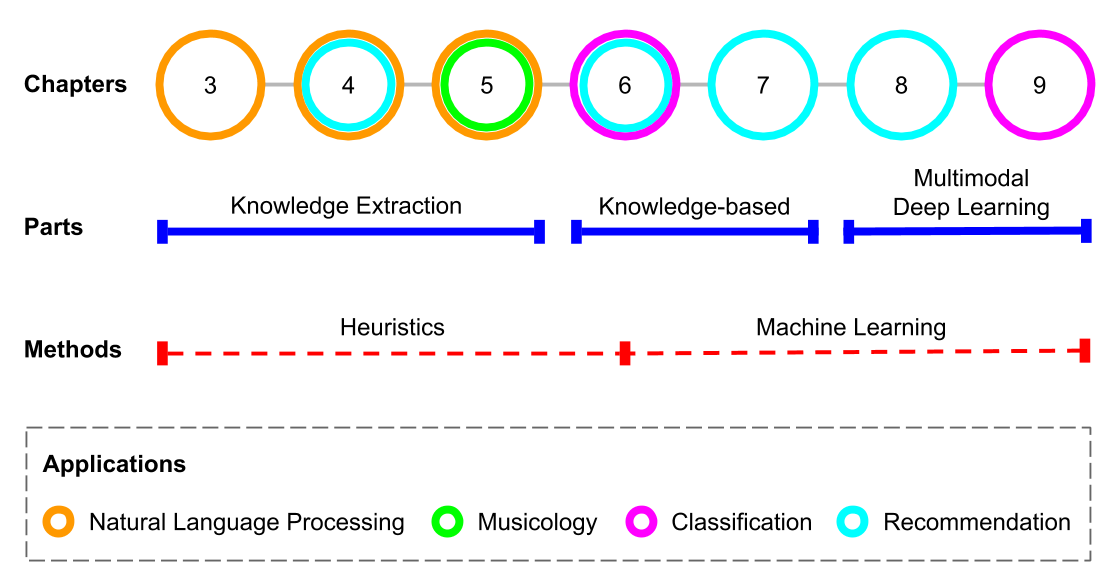
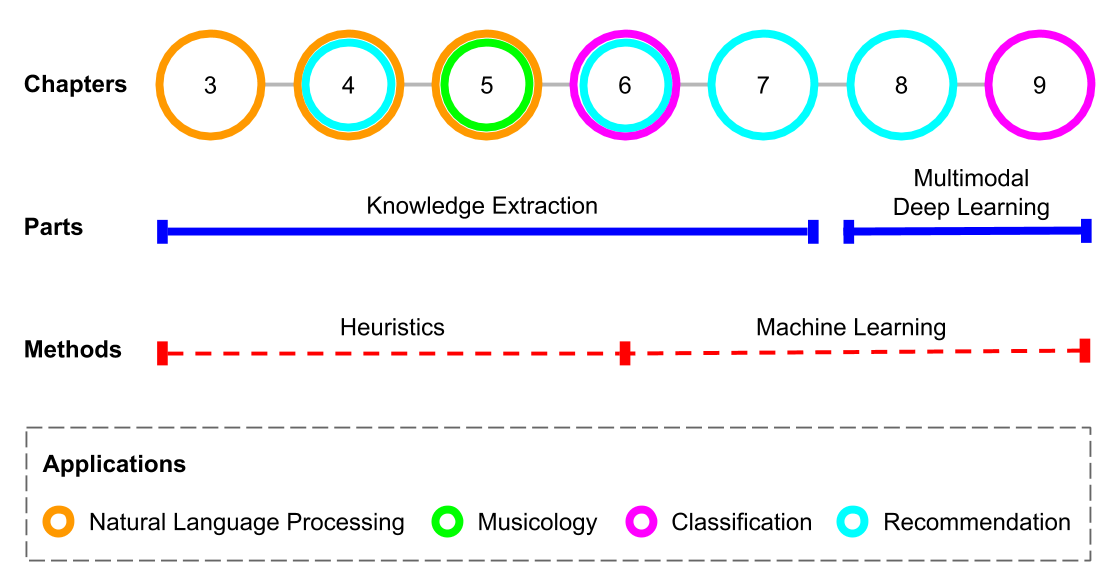
new intro

Changed region(s): [[0.2131, 0.3396, 0.7305, 0.4322]]

diff --git a/chapters/ch02_soa.tex b/chapters/ch02_soa.tex
@@ -10,8 +10,8 @@ The literature review presented in this chapter is divided in three parts. Each 
 First, we summarise existing work on several areas of Natural Language Processing, with special focus on its application to the music domain. 
 We define what a knowledge base (KB) is and the different existing types. Moreover, we deepen into the available knowledge bases that contain music information.
 Then, we explain what entity linking is and briefly describe some state-of-the-art systems. Additionally, we outline different existing approaches for relation extraction. 
-Hereafter, we briefly explain the different main approaches used in Recommender Systems. Then, we enumerate the main available works related to semantic-based approaches for recommendation.
-Finally, we dig into the available literature on Music Information Retrieval. More specifically, we first review the state-of-the-art in text-based and semantic-based approaches. Then, we focus on three specific tasks: music genre classification, artist similarity, and music recommendation.
+Next, we briefly explain the main methodologies used in Recommender Systems, and enumerate the available work on knowledge-based approaches.
+Finally, we dig into the existing literature on Music Information Retrieval. More specifically, we first review the state-of-the-art in text-based and semantic-based approaches. Then, we focus on three specific tasks: music genre classification, artist similarity, and music recommendation.
 %. First, we recapitulate existing work about music genre classification, with a special focus on text-based approaches.
 %Second, we illustrate existing text-based apporaches for artist similarity.
 %Finally, we outline the different apporaches that have been proposed about semantic-based recommender systems and cold-start music recommendation.
@@ -137,22 +137,17 @@ Dependency relations have been successfully incorporated to relation extraction 
 
 %Information overload in modern Web applications challenges users in their decision-making tasks. 
 %Recommender systems have emerged in the last years as fundamental tools in assisting users to find, in a personalized manner, what is relevant for them in overflowing knowledge spaces. 
-The main objective of a recommender system is to predict the \textit{rating} or \textit{preference} that a user would give to an item. By doing so, its mision is to provide suggestions for items to be of use to a user \citep{ricci2011introduction}. \textit{Item} is the general term used to denote what the system recommends to users (e.g. song, album, video, book).
+The main objective of a recommender system is to predict the \textit{rating} or \textit{preference} that a user would give to an item. By doing so, its mision is to provide suggestions for items to be of use to a user \citep{ricci2011introduction}. \textit{Item} is the general term used to denote what the system recommends to users (e.g., song, album, video, book).
 
-\begin{figure}
-	\centering
-	\includegraphics[width=0.6\textwidth]{ch02_soa_pics/Long_tail.png}
-	\caption{Long tail distribution.\label{fig:soa:longtail}}
-\end{figure}
-
-Within the recommender systems arena, there are two main approaches for computing recommendations: collaborative filtering and contend-based ones.
+Within the recommender systems arena, there are two main methods for computing recommendations: collaborative filtering and contend-based ones.
 The most popular is collaborative filtering which provides recommendations to a user by considering the preferences of other users with similar tastes. 
 Matrix factorization techniques are currently collaborative filtering state-of-the-art \citep{Koren2009}. 
 As collaborative filtering methods rely only on users feedback information, they may suffer from the so-called \textit{cold-start} problem \citep{Saveski2014}. That is, when new items are introduced in the system, they can not be initially recommended as there is no feedback information related to them.
-In addition, most popular items tend to attract most of the recommendations in collaborative filtering approaches. The relation between items and popularity is tipically represented as a \textit{long tail} distribution \citep{anderson2006long} (see Figure~\ref{fig:soa:longtail}). A large number of items in the catalog normally receive few interacitons from users, so they are hadrly recommended to users. This items are often called \textit{long tail} items. These less popular items may be promoted by priming other evaluation measures rather than prediction accuracy, such as novelty or diversity.
+In addition, most popular items tend to attract most of the recommendations in collaborative filtering approaches. The relation between items and popularity is tipically represented as a \textit{long tail} distribution \citep{anderson2006long} (see Figure~\ref{fig:intro:longtail}). A large number of items in the catalog normally receive few interacitons from users, so they are hadrly recommended. %This items are often called \textit{long tail} items. 
+These less popular items may be promoted by priming other evaluation measures rather than prediction accuracy, such as novelty or diversity \citep{abdollahpouri2017controlling}.
 However, an even larger set of items in large catalogs receive almost none interactions. These \textit{extreme long tail} items are in practice as cold-start items, as the number of interactions is smaller than the minimum value requiered for collaborative filtering methods.
 
-Contrary to collaborative filtering, content-based methods \citep{Mooney1999} rely only on item features, and recommendations are based on similarity between such features. Content-based methods does not suffer from the cold-start problem and are not biesed towards popular items. However, collaborative filtering methods tend to perform better when measuring the overall accuracy of the prediction \citep{pilaszy2009recommending}.
+Contrary to collaborative filtering, content-based methods \citep{Mooney1999} rely only on item features, and recommendations are based on similarity between such features. Content-based methods does not suffer from the cold-start problem and are not biesed towards popular items. However, collaborative filtering methods tend to perform better when measuring the overall accuracy of the predictions \citep{pilaszy2009recommending}.
 %Content-based systems recommend items sharing similar features to those a user has preferred in past.
 Finally, hybrid methods \citep{Burke2002} try to combine the best of both worlds, combining both item-content and item-user feedback. 
 %Both approaches can be combined to build hybrid systems \cite{Burke2002}. 
@@ -161,7 +156,7 @@ When available, the usage of side information about items has proven to boost th
 %Recommender systems can be broadly classified into collaborative filtering (CF), content-based, and hybrid methods. Collaborative filtering methods \citep{Koren2009} use the item-user feedback matrix and predictions are based on the similarity of user or items profiles. Content-based methods \citep{Mooney1999} rely only on item features, and recommendations are based on similarity between such features. Finally, hybrid methods \citep{Burke2002} try to combine both item content and item-user feedback.
 
 
-\subsection{Semantic-based approaches}
+\subsection{Knowledge-based approaches}
 \label{sec:SOA:mir:recommendation:semantic}
 
 Ontology-based and semantics-aware recommendation systems have been proposed in many works in the past. 
@@ -181,42 +176,45 @@ Two hybrid approaches have been presented lately. In \citep{Ostuni2013} the auth
 %In \citep{Rowe1} the authors propose a semantic-aware extension of the SVD++ model, named SemanticSVD++, which incorporates semantic categories of items into the model. The model is able also to consider the evolution over time of user's preferences. 
 Finally, another interesting direction about the usage of LOD for content-based RSs is explored in \citep{MustoSLG14} where the authors present Contextual eVSM, a content-based context-aware recommendation framework that adopts a semantic representation based on distributional semantics and entity linking techniques.% In particular entity linking is used to detect entities in free text and map them to LOD.
 
+%\subsection{Deep learning approaches}
+
 
 \section{Music Information Retrieval}
 \label{sec:SOA:mir}
 
 As stated in Section~\ref{sec:intro:nlp}, Music Information Retrieval (MIR) is a multidisciplinary field of research that is concerned with the extraction, analysis, and usage of information about music. %Traditionally, MIR has been more focused on the use of audio content, underestimating other sources of information. However, in recent years several studies have showed the benefits of using other modalities, as well as their combination in multimodal approaches \cite{Schedl2014}. 
 Although MIR approaches have been traditionally focused on audio content, there have been a growing interest in text-based and multimodal approaches along the last decade. However, most of these text-based approaches are focused on low and mid-level text representations, ignoring the full epistemic potential expressed in texts. In addition, most of audio-based approaches have traditionally relied on handcrafted features, underexploring factors of variability behind the data.
-In this dissertation we focus on knowledge-based and representation learning approaches applied to three MIR tasks: music genre classification, artist similarity, and music recommendation.
+In this dissertation we focus on knowledge-based and deep learning approaches applied to three MIR tasks: music genre classification, artist similarity, and music recommendation.
 
 \subsection{Text-based approaches}
 
-Early work on NLP in the context of MIR is related to the extraction of music artist information from artist-related web pages, using search engines to gather those pages and then parsing their DOM trees \citep{Cohen2000}. Other studies \citep{Ellis2002,Whitman2002} use weighted term profiles based on specific term sets for recommendation and classification tasks. 
-%Early work also on multimodal approaches \cite{} combines 
-Co-occurrence of artist names in web pages content and page count based on results provided by search engines have been used for artist similarity and recommendation tasks \citep{Schedl2005}. Song lyrics \citep{laurier2008multimodal,corona2015exploration} and tweets \citep{hauger2013million,schedl2012mining} are other commonly used text sources in MIR. %The number of publications related to this topic have been increasing along the years \cite{}. 
+Early work on NLP in the context of MIR is related to the extraction of music artist information from artist-related web pages by parsing their HTML-trees \citep{Cohen2000}, using weighted term profiles \citep{Ellis2002,Whitman2002}, or counting co-occurrence of artist names in results provided by search engines \citep{Schedl2005}. Other text sources, such as song lyrics \citep{laurier2008multimodal,corona2015exploration} and tweets \citep{hauger2013million,schedl2012mining} have been also studied. %The number of publications related to this topic have been increasing along the years \cite{}. 
 More detailed information about text-based approaches applied to MIR problems can be found in \cite{Knees2013, Schedl2014}.
+%There are some review papers on text-based approaches \cite{Knees2013, Schedl2014}.
 
-There have been also some initial atempts to work with mid and high-level text representations in the context of MIR. In \cite{Sordo2012}, a methodology for extracting semantic information from music-related forums is proposed, inferring semantic relations from the co-occurrence of musical concepts in forum posts. 
+There are in the literature some initial atempts to work with high-level text representations in the context of MIR. In \cite{Sordo2012}, a methodology for extracting semantic information from music-related forums is proposed, inferring semantic relations from the co-occurrence of musical concepts in forum posts. 
 %In \cite{Sordo2013}, a set of semantic facets is automatically obtained and anchored upon the structure of Wikipedia, and tags from the folkosonomy of \texttt{Last.fm} are then categorized with respect to the obtained facets. 
 In \cite{Knees2011} a methodology to automatically extract semantic information and relations about musical entities from arbitrary textual sources is proposed. In \cite{TataandDiEugenio2010} a method to extract information about indidual songs from album reviews is proposed, combining syntactic, semantic and sentiment analysis. Finally, the C@amerata task \cite{sutcliffe2016c, sutcliffe2015}, part of the MeidaEval evaluation campaigns from 2013 to 2017, is focused on music Question \& Answering (Q\&A) systems. In this task the input is a natural language phrase, together with a music score in MusicXML, and the required output should be one or more matching passages in the score.
 
 There have been also some interesting works trying to understand the semantics behind the audio signal using natural language text. In this sense, \cite{Whitman2004} combines text analysis with acoustic descriptors in order to automatically generate music reviews from the audio signal. In \cite{koduri2014culture}, culturally relevant and musically meaningful information about melodic intervals extracted from audio and text are structured in a formal knowledge representation and exploited to compute simiarity measures for the discovery of musical entities.
 %\cite{Kolozali2013} shows a method for the automatic creation of an ontology of musical instruments using formal concept analysis over audio features. 
 
-\subsection{Semantic-based approaches}
+\subsection{Knowledge-based approaches}
 \label{sec:SOA:mir:semantics}
 
-Semantic representations have been also studied in the context of MIR, but instead of extracted from text, they are typically retrieved from online knowledge repositories. For instance, in \cite{Sordo2013} a set of semantic facets is automatically obtained and anchored upon the structure of Wikipedia, and tags from the folkosonomy of \texttt{Last.fm} are then categorized with respect to the obtained facets. In \cite{Celma:ISWC06}, information from different sources is gathered in a central knowledge repository following the Semantic Web principles and using Friend of a Friend (FOAF) ontology. This semantic information is then exploited for music recommendation. In \cite{dbrec1}, DBpedia graph is used to provide explanations of music recommendations. In \cite{Ostuni2013}, DBpeida graph information is combined with users feedback data comming from \texttt{Last.fm} to compute music recommendations.
+Knowledge representations have been also studied in the context of MIR, but instead of extracted from text, they are typically retrieved from online knowledge repositories. For instance, in \cite{Sordo2013} a set of semantic facets is automatically obtained and anchored upon the structure of Wikipedia, and tags from the folkosonomy of \texttt{Last.fm} are then categorized with respect to the obtained facets. In \cite{Celma:ISWC06}, information from different sources is gathered in a central knowledge repository following the Semantic Web principles and using the Friend of a Friend (FOAF) ontology. This semantic information is then exploited for music recommendation. In \cite{dbrec1}, DBpedia graph is used to provide explanations of music recommendations, whereas in \cite{Ostuni2013}, is combined with users feedback data comming from \texttt{Last.fm} to compute music recommendations.
 
-A key aspect in the development of semantic-based music retrieval systems have been the definition of the Music Ontology \cite{raimond2007music}, a formal framework for dealing with music-related information on the Semantic Web, including editorial, cultural and acoustic information. This development, has facilitate the interlinking between music-related datasets on the Web \cite{raimond2008automatic}. \cite{Gracy2013} reviews current efforts to connect music data already available within the Semantic Web. The authors collected, analyzed and mapped properties used by music Linked Data knowledge bases, library catalogs and various digital collections.
+A key aspect in the development of knowledge-based music retrieval systems have been the definition of the Music Ontology \cite{raimond2007music}, a formal framework for dealing with music-related information on the Semantic Web, including editorial, cultural and acoustic information. This development, has facilitated the interlinking between music-related datasets on the Web \cite{raimond2008automatic}. In this direction, \cite{Gracy2013} reviews current efforts to connect music data already available within the Semantic Web. The authors collected, analyzed and mapped properties used by music Linked Data knowledge bases, library catalogs and various digital collections.
 
 In this context of Linked Open Data, semantic information have also been exploited for Computational Musicology. It is worth mentioning \cite{Crawford}, where a method helps the musicologist to create a linked and extensible knowledge structure over a collection of Early Music metadata and facsimile images.  
 In \cite{Rose2014} seven big datasets of musical-biographical metadata are aligned, and they show how analysis and visualization of the data might transform musicological understanding. In \cite{Pattuelli2013}, Linked Data technology is applied to enhance discovery and visibility of jazz music.
 
+%\subsection{Deep learning approaches}
+
 \subsection{Music genre classification}
 \label{sec:SOA:mir:classfication}
 
-Music genre labels are useful categories to organize and classify songs, albums and artists into broader groups that share similar musical characteristics. They have been widely used for music classification, from physical music stores to streaming services. Automatic music genre classification thus is a widely explored topic \citep{sturm2012survey}.
+%Music genre labels are useful categories to organize and classify songs, albums and artists into broader groups that share similar musical characteristics. They have been widely used for music classification, from physical music stores to streaming services. Automatic music genre classification thus is a widely explored topic \citep{sturm2012survey}.
 
 Most published music genre classification approaches rely on audio sources \citep{sturm2012survey,bogdanov2016cross}. 
 Traditional techniques typically use handcrafted audio features, such as Mel Frequency Cepstral Coefficients (MFCCs) \citep{logan2000mel}, as input of a machine learning classifier (e.g., SVM, k-NN) \citep{Tzanetakis2002,seyerlehner2010using}.
@@ -232,20 +230,20 @@ Regariding multimodal approaches found in the literature, most of them combine a
 
 Almost all related work about music genre classification is concentrated in multi-class classification of music items into broad genres (e.g., Pop, Rock), assigning a single label per item. This is problematic since there may be hundreds of more specific music genres \citep{pachet2000taxonomy}, and these may not be necessarily mutually exclusive (i.e., a song could be Pop, and at the same time have elements from Deep House and a Reggae grove). 
 Multi-label classification is a widely studied problem \citep{tsoumakas2006multi,jain2016extreme}. 
-Although there are not many approaches for multi-label classification of music genres \citep{Sanden2011,wang2009tag}, there is a long tradition in MIR for tag classification, which is also a multi-label problem \citep{Choi2016,wang2009tag}.
+Although there are not many approaches for multi-label classification of music genres \citep{Sanden2011,wang2009tag}, there are a large number of works on music auto-tagging from audio \citep{Choi2016,wang2009tag}, which is also a multi-label problem.
 
 
 \subsection{Artist similarity}
 \label{sec:SOA:mir:similarity}
 
-Although artist similarity may be seen as a subtask of music recommendation where no user information is involved, we decided to address its literature review separately, given that it has become a proper task in the context of MIR.
-Music artist similarity has been studied from the score level, the acoustic level, and the cultural level \citep{Ellis2002}. In this disertation, we focus on the latter approach, and more specifically in text-based approaches. Literature on document similarity, and more specifically on the application of text-based approaches for artist similarity is discussed next.
+Artist similarity may be seen as a music recommendation problem without the personalization component. However, we decided to address its literature review separately, given that it has become a proper task in the context of MIR.
+Music artist similarity has been studied from the score level, the acoustic level, and the cultural level \citep{Ellis2002}. In this disertation, we focus on the latter approach, and more specifically on text-based approaches. %Literature on document similarity, and more specifically on the application of text-based approaches for artist similarity is discussed next.
 
 The task of identifying similar text instances, either at sentence or document level, has applications in many areas of Artificial Intelligence and Natural Language Processing \citep{LiuandWang2014}. In general, document similarity can be computed according to the following approaches: surface-level representation like keywords or n-grams \citep{ChimandDeng2008}; corpus representation using counts \citep{Rorvig1999}, e.g. word-level correlation, jaccard or cosine models; Latent factor models, such as Latent Semantic Analysis \citep{Deerwesteretal1990}; or methods exploiting external knowledge bases like ontologies or encyclopedias \citep{Huetal2009}.
 
 The use of text-based approaches for artist and music similarity was first applied in \citep{Cohen2000}, by computing co-occurrences of artist names in web page texts and building term vector representations. By contrast, in \citep{Schedl2005} term weights are extracted from search engine's result counts. In \citep{Whitman2002} n-grams, part-of-speech tagging and noun phrases are used to build a term profile for artists, weighted by employing tf-idf. Term profiles are then compared and the sum of common terms weights gives the similarity measure. %In a similar approach \citep{Knees2004}, only unigrams are used and cosine similarity is applied to compute the resemblance between term profiles.
-More approaches using term weight vectors have been developed over different text sources, such as music reviews \citep{Hu2005}, blog posts \citep{Celma2006}, or microblogs \citep{Schedl2013}.
-In \citep{Logan2003} Latent Semantic Analysis is used to measure artist similarity from song lyrics. Domain specific ontologies have also been applied to the problem of music recommendation and similarity, such as in \citep{Celma2008}. In \citep{Leal2012}, paths on an ontological graph extracted from DBpedia are exploited for recommending music web pages. %However, to the best of our knowledge, there are scant approaches in the music domain that exploit implicit semantics and enhance term profiles with external knowledge bases.
+%More approaches using term weight vectors have been developed over different text sources, such as music reviews \citep{Hu2005}, blog posts \citep{Celma2006}, or microblogs \citep{Schedl2013}.
+In \citep{Logan2003} Latent Semantic Analysis is used to measure artist similarity from song lyrics. %Domain specific ontologies have also been applied to the problem of music recommendation and similarity, such as in \citep{Celma2008}. In \citep{Leal2012}, paths on an ontological graph extracted from DBpedia are exploited for recommending music web pages. %However, to the best of our knowledge, there are scant approaches in the music domain that exploit implicit semantics and enhance term profiles with external knowledge bases.
 
 
 \subsection{Music recommendation}
@@ -257,6 +255,8 @@ challenges posed by context-aware music retrieval and recommendation.
 A survey about techniques for the generation of music playlists is given in \citep{Bonnin2014}. In particular, the authors provide a review of the literature on automated playlist generation and a categorization of the existing approaches. 
 A context-aware music recommender system which infers contextual information based on the most recent sequence of songs liked by the user is presented in \citep{HaririMB12}.
 More recently, a playlist generation algorithm with the goal of maximizing coherence and personalization of the playlist has been presented in \citep{Jannach2015}. Finally, in \citep{AghdamHMB15} a technique for adapting recommendations to contextual changes based on hierarchical hidden Markov models is presented.
+
+%Falta deep learning
 
 %Social tags have been extensively used as a source of content features to recommend music \citep{Knees2013}. However, these tags are usually collectively annotated, which often introduce an artist popularity bias \citep{Turnbull2008}.
 %Artist biographies and press releases, on the other hand, do not necessarily require a collaborative effort, as they may be produced by artists themselves. 

diff --git a/chapters/ch01_introduction.tex b/chapters/ch01_introduction.tex
@@ -18,15 +18,15 @@ In this thesis, we address the aforementioned challenges of classification and r
 We hypothesize that such enriched knwoledge and learned multimodal data representations are crucial for improving recommendation and classification algorithms. %disrupting traditional approaches in different directions.
 %we aim to advance the field of Music Information Retrieval. 
 
-\section{Music Information Retrieval}
+\section{Applied methodologies}
 
-This thesis is framed in the Music Information Retrieval (MIR) research tradition. 
+This thesis is framed within the Music Information Retrieval (MIR) research tradition. 
 MIR is a multidisciplinary field of research concerned with the extraction, analysis, and usage of information about any kind of music entity (e.g. song, artist, album) on any representation level (e.g. audio signal, symbolic MIDI, metadata) \citep{schedl2008}. According to \cite{Schedl2013}, the musical factors that influence human music perception can be categorized into \textit{music content} and \textit{music context}.%, \textit{user context} and \textit{user properties}. 
 Music context relates to all musical aspects that are not encoded in the audio signal, such as song lyrics, artist's biography, album cover artwork, or music video clips, whereas music content is defined as human perceptual aspects that can be extracted from the audio signal. %User context is related to the activity, mood or spatio-temporal aspects of the user when listening to music, and user properties to her music preferences, education or demographics. 
 Following this distinction, research methodologies within the MIR community that deal with data modalities different from audio (e.g. text, images) are often called context-based approaches, whereas methodologies based on the analysis of the audio signal are called content-based approaches. 
 Although we agree with this classification criteria, in this dissertation we follow the nomenclature used in the Recommender Systems community \citep{Ostuni2013} and consider \textit{audio signal}, \textit{text} (e.g. metadata, artist's biographies, song lyrics), and \textit{images} (e.g. album cover artwork, artist's photographies)as different modalities of content.
 
-\subsection{Why Knowledge Extraction?}
+\subsection{Why knowledge extraction?}
 \label{sec:intro:nlp}
 
 As pointed out by \cite{humphrey2012}, MIR approaches are typically based on a two-stage architecture of feature extraction and semantic interpretation, e.g., classification, regression, clustering, similarity ranking, etc. 
@@ -38,7 +38,7 @@ Following this feature hierarchy, when dealing with textual data, we can also di
 
 In the first part of this thesis, we focus on text-based approaches. On the one hand, we work on new methodologies for the extraction of high level semantic representations from unstructured texts. On the other hand, we put the emphasis on the development of approaches that exploit these semantic representations in MIR tasks, such as music recommendation and classification. In addition, we study how semantic information may impact musicological studies.
 
-\subsection{Why Multimodal Deep Learning?}
+\subsection{Why multimodal deep learning?}
 \label{sec:intro:learning}
 
 As stated before, MIR approaches are commonly based on a two-stage architecture of feature extraction and semantic interpretation. In this context, data representations are generally obtained following a traditional feature extraction process, which involves a combination of music domain-knowledge, psychoacoustics, and audio engineering \citep{humphrey2012}. 
@@ -49,38 +49,52 @@ Contrarily to feature engineering, representation learning (or feature learning)
 
 While in the first part of the thesis we use data representations based on traditional feature engineering approaches, in the second part of this dissertation we focus on representation learning approaches using deep neural networks. We apply this methodology to different data modalities (audio, text and images) and their combination, and in the context of music recommendation and classification tasks.
 
+\section{Challenges addressed}
 
-\section{Music Classification}
+%The main objective of this thesis is to improve the classification and recommendation of musical items in large music collections, with special emphasis on novel and less popular items. To do so, we have addressed two different approaches, one related to the extraction of structured knowledge from unstructured text sources, and the other related to the learning of new data represantations from multimodal data. However, while working in the former approach, we discovered that it may be also applied to other music related problems such as the automatic creation of music knowledge repositories or the discovery of musicological knowledge. %, which are more related to the understanding of music. 
+%Therefore, in addition to classification and recommendation, we have also addressed these linguistic and musicological problems.
+%In Figure\ref{fig:intro:chapters}, a diagram of this thesis is shown, organized according to the different approaches, methods, and applications present in each chapter. 
+In this section we describe in detail the two main challenges addressed in this dissertation: music classification and music recommendation.
+
+\subsection{Music classification}
 \label{sec:intro:annotation}
 
 The advent of large music collections has posed the challenge of how to access the information in terms of retrieval, browsing, and recommendation. One way to ease the access of large music collections is to keep annotations of all music resources \citep{sordo2012semantic}. Annotations can be added either manually or automatically. 
 %Manual annotation of huge music collections is too costly due to high human effort required. 
 However, due to the high human effort required for manual annotations, the implementation of automatic annotations processes has become a necessity. 
 
-We distinguish two ways of automatically enhancing annotations: (i) gathering annotations from external sources, and (ii) learning annotations from the collection's data. To address (i), information can be obtained from online knowledge repositories (e.g. Wikipedia, MusicBrainz), or extracted from collections of unstructured documents. This imposes the challenge of how to properly map collection's items with external entities. To address (ii), machine learning techniques can be applied over the collection's data. When annotations are learned from audio this task is often called auto-tagging. However, annotations can be learned from different data modalities, such as album cover artworks, tags, editorial metadata, video clips, etc.
+We distinguish two ways of automatically enhancing annotations: (i) gathering annotations from external sources, and (ii) learning annotations from the collection's data. To address (i), information can be obtained from online knowledge repositories (e.g. Wikipedia, MusicBrainz), or extracted from collections of unstructured documents. This imposes the challenge of how to properly map collection's items with external entities. To address (ii), machine learning techniques can be applied over the collection's data. When annotations are learned from audio, this classification task is often called auto-tagging. However, annotations can be learned from different data modalities, such as album cover artworks, tags, editorial metadata, video clips, etc.
 
 Among the different categories of annotations used in music collections, the most prototypical are: music genres, instruments, and moods. 
 Music genre labels are useful categories to organize and classify songs, albums and artists into broader groups that share similar musical characteristics. Music genres have been widely used for music classification, from physical music stores to streaming services. Automatic music genre classification thus is a widely explored topic \citep{sturm2012survey}.
-However, almost all related work is concentrated in the classification of music items into broad genres (e.g., Pop, Rock), assigning a single label per item. This is problematic since there may be hundreds of more specific music genres \citep{pachet2000taxonomy}, and these may not be necessarily mutually exclusive (i.e., a song could be Pop, and at the same time have elements from Deep House and a Reggae groove). 
+However, almost all related work is concentrated in the classification of music items into broad genres (e.g., Pop, Rock), assigning a single label per item \citep{bogdanov2016cross}. This is problematic since there may be hundreds of more specific music genres \citep{pachet2000taxonomy}, and these may not be necessarily mutually exclusive (i.e., a song could be Pop, and at the same time have elements from Deep House and a Reggae groove). 
 
-In this thesis, we focus on the problem of enriching annotations in music collections from the two above defined standpoints, i.e. gathering and learning. We study how semantic technologies may be useful to improve the annotations of musical items. In addition, we tackle the problem of single-label and multi-label music genre classification from different data modalities (i.e. audio, text and images) and their combination.
+In this thesis, we focus on the problem of enriching annotations in music collections from the two above defined standpoints, i.e. gathering and learning. We study how semantic technologies may be useful to improve the annotations of musical items. In addition, we tackle the problem of multi-label music genre classification from different data modalities (i.e., audio, text, and images) and their combination.
 
 
-\section{Music Recommendation}
+\subsection{Music recommendation}
 \label{sec:intro:recommendation}
 
-Information overload in modern Web applications challenges users in their decision-making tasks. Recommender systems have emerged in the last years as fundamental tools in assisting users to find, in a personalized manner, what is relevant for them in overflowing knowledge spaces \cite{TODO}. 
+Information overload in modern Web applications challenges users in their decision-making tasks. Recommender systems have emerged in the last years as fundamental tools in assisting users to find, in a personalized manner, what is relevant for them in overflowing knowledge spaces \cite{ricci2011introduction}. 
 
-Music Recommendation is a relatively young but continuously growing research topic, in both MIR and Recommender Systems communities~\citep{oscarBook}. Several research approaches and commercial systems have been proposed in the last decade. However, many of them are adaptations from other domains \citep{oscarBook}. 
+Music recommendation is a relatively young but continuously growing research topic, in both MIR and Recommender Systems communities. Although several research approaches and commercial systems have been proposed in the last decade, many of them are adaptations from other domains \citep{oscarBook}. 
 Music has its own specificities with respect to other domains. For instance, a user may consume a musical item several times, or very different items according to the user context (e.g. working, dinning, exercising). Therefore, music recommendation is a challenging and still unsolved problem.
 
-Although music online services make available almost all existing music, only a small percentage of these catalogs is actually consumed by the vast majority of users. Music consumption follows what is called a \textit{long tail} distribution \citep{oscarBook} (see Figure~\ref{}). Therefore, one of the main challenges in music recommendation is how to make this \textit{long tail} of musical items consumed. Moreover, as new music is continuously being created, new artists and releases appear every day. Hence, another important challenge in recommender systems is how to deal with these new items. This is often called the \textit{cold-start} problem. % TODO: Anadir algo mas sobre cold-start y diferencia con long tail
+\begin{figure}
+	\centering
+	\includegraphics[width=0.7\textwidth]{ch01_intro_pics/Long_tail.png}
+	\caption{Long tail distribution.\label{fig:soa:longtail}}
+\end{figure}
 
-The web is full of user generated content with relevant information about music and musicians, which have the potential to impact in the performance of music recommender systems. In addition, up to now, audio content has been barely exploited in commercial recommender systems. However, thanks to the advent of novel deep learning approaches \citep{Oord2013}, audio content is becoming a key factor in order to provide accurate long tail recommendations.
+Although music online services make available almost all existing music, only a small percentage of these catalogs is actually consumed by the vast majority of users. Music consumption follows what is called a \textit{long tail} distribution \citep{oscarBook} (see Figure~\ref{fig:soa:longtail}). Therefore, one of the main challenges in music recommendation is how to make this niche of unknown musical items profitable. Moreover, as new music is continuously being created, new artists and releases appear every day. Hence, another important challenge in music recommender systems is how to deal with these new items, which is often called the \textit{cold-start} problem. % TODO: Anadir algo mas sobre cold-start y diferencia con long tail
 
-Most research in Music Recommendation has been dedicated to developing algorithms that provide \textit{good} and \textit{useful} recommendations~\citep{oscarBook}, neglecting the importance of the novelty and diversity of recommendations \citep{adomavicius2012improving,Bellogin2010}. In addition, very few approaches are able to provide explanations of the recommendations to the users~\citep{Passant2008, Passant2010}. According to~\cite{celma2008new}, giving explanations of the recommendations provides transparency to the recommendation process and increases the confidence of the user in the system.
+To tackle these problems, it is crucial to have good items descriptions and to exploit all the available multimodal data (e.g., images, audio, texts, and videos).
+The web is full of user generated content with relevant information about music, which has the potential to impact in the performance of music recommender systems. However, as stated before, this content is mostly unstructured and requieres the application of knowledge extraction techniques that exploit the semantic of texts.
+In addition, up to now, audio content has been barely exploited in commercial recommender systems. However, thanks to the advent of novel deep learning approaches that raised the accuracy of audio-based recommendations \citep{Oord2013}, audio may turn into a key factor in order to provide accurate long tail recommendations.
 
-In this thesis we further explore into the Music Recommendation problem from three different perspectives. First, we investigate how information extracted from large collections of music-related documents may be useful to provide explanations of recommendations to users. Second, we tackle the problem of recommending long tail items by leveraging semantic information from knowledge repositories and combining that with users feedback data. Finally, we address the problem of cold-start music recommendations by combining different data modalities using deep neural networks.
+Most research in music recommendation has been dedicated to developing algorithms that provide \textit{good} and \textit{useful} recommendations~\citep{oscarBook}, neglecting the importance of the novelty and diversity of recommendations \citep{adomavicius2012improving,Bellogin2010}. In addition, very few approaches are able to provide explanations of the recommendations to the users~\citep{Passant2008, Passant2010}. According to~\cite{celma2008new}, giving explanations of the recommendations provides transparency to the recommendation process and increases the confidence of the user in the system.
+
+In this thesis we further explore into the music recommendation problem from three different perspectives. First, we investigate how information extracted from large collections of music-related documents may be useful to provide explanations of recommendations to users. Second, we tackle the problem of recommending long tail items by leveraging semantic information from knowledge repositories and combining that with users feedback data. Finally, we address the problem of cold-start music recommendations by combining different data modalities using deep neural networks.
 
 
 \section{Objectives and outline of the thesis}
@@ -92,7 +106,12 @@ In this thesis we further explore into the Music Recommendation problem from thr
 	\caption{Thesis overview.\label{fig:intro:chapters}}
 \end{figure}
 
-In the previous sections we have explained the motivations and context of our thesis. According to that, the main goal of this dissertation is to push the state of the art in music recommendation and classification by leveraging knowledge repositories and unstructured text sources, and learning novel data representations from multimodal data using deep neural networks. Although this thesis is focused on the music domain, the work we present can be easily adapted to other multimedia domains. Figure\ref{fig:intro:chapters} shows a conceptual organization of the chapters of this thesis according to the different approaches, methods, and applications.
+In the previous sections we have explained the motivations and context of our thesis. According to that, the main objective of this dissertation is to improve the classification and recommendation of musical items in large music collections, with special emphasis on the promotion of novel and less popular items. To do so, we have addressed two different methodologies, one related to the extraction of structured knowledge from unstructured text sources and its further enrichment using information present in online knowledge repositories, and the other related to the learning of new data represantations from multimodal data using deep learning architectures. The former approach may be also applied to other music related problems such as the creation of music knowledge repositories or the discovery of musicological knowledge. %, which are more related to the understanding of music. 
+Therefore, in addition to the classification and recommendation problems, we have also addressed these linguistic and musicological challenges.
+In Figure\ref{fig:intro:chapters}, a diagram of this thesis is shown, organized according to the different approaches, methods, and applications present in each chapter. Although this thesis is focused on the music domain, we strongly believe that the work we present can be easily adapted to other multimedia domains. 
+
+
+%In the previous sections we have explained the motivations and context of our thesis. According to that, the main goal of this dissertation is to push the state of the art in music recommendation and classification by leveraging knowledge repositories and unstructured text sources, and learning novel data representations from multimodal data using deep neural networks. Although this thesis is focused on the music domain, the work we present can be easily adapted to other multimedia domains. Figure\ref{fig:intro:chapters} shows a conceptual organization of the chapters of this thesis according to the different approaches, methods, and applications.
 
 This thesis is structured as follows: Chapter~\ref{sec:SOA} presents some background knowledge and related work on Natural Language Processing, Recommender Systems, and MIR. Hereafter, the work in this dissertation is divided in two Parts: In Part~\ref{part:knowledge-extraction} we explore different techniques and approaches to extract semantic information from unstructured music-related text sources. Then, these semantic representations are exploited in Music Classification, Similarity and Recommendation problems. Within this Part, Chapter~\ref{sec:linking} illustrates the problem of linking musical texts and knowledge repositories. In Chapter~\ref{sec:kb} we address the automatic generation of Music Knowledge Bases from unstructured text sources. This Chapter encloses with an experiment on explanations of music recommendations based on extracted knowledge. In Chapter~\ref{sec:musicology}, three experiments study the potential impact of knowledge extraction techniques in musicological studies.
 Chapter~\ref{sec:similarity} presents the application of a semantic-based approach to music similarity and classification problems, whereas Chapter~\ref{sec:graph-rec} addresses the problem of long tail recommendations by enriching annotations with semantic information.

diff --git a/chapters/ch08_cold-rec.tex b/chapters/ch08_cold-rec.tex
@@ -1,6 +1,6 @@
 %!TEX root = ../thesis_a4.tex
 
-\part{Multimodal Deep Learning Approaches}
+\part{Multimodal Deep Learning}
 \label{part:multimodal-deep}
 
 \chapter{Cold-start Music Recommendation}
